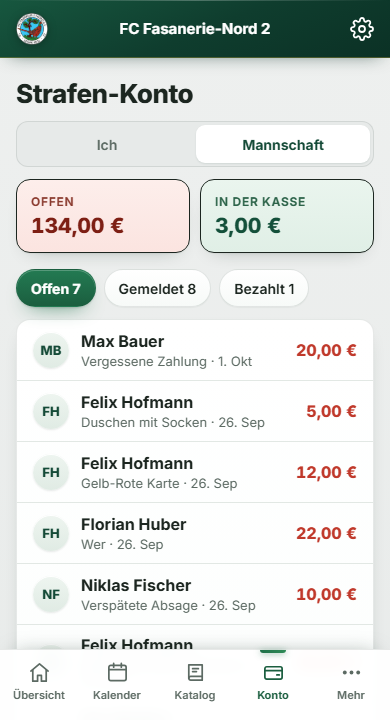
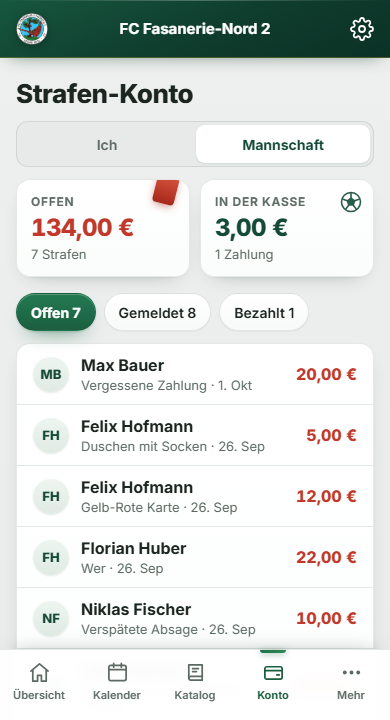
Nachschliff D5: Kennzahlen Offen und In der Kasse (Build 2026-10-09-F)
Konto > Mannschaft: die beiden Kennzahl-Kacheln nach der Vorlage (D5),
ruhige weiße Kacheln statt getönter mit dunklem Rand. Label 12/700
Versalien, Betrag 24/800 (Offen rot, In der Kasse grün), darunter die
Anzahl ("240 Strafen", "61 Zahlungen"). Eine Schiedsrichterkarte ragt
schräg aus "Offen", in "In der Kasse" liegt der Ball. Keine Animation
(die Konzepte der Vorlage sind nicht Teil des Pakets); in der Kasse
kommen keine Kennzahlen zurück.

- nsmess D5 grün; neue Referenz 12 Konto Mannschaft.
- Pflichtliste 20/20, 390-px-Abgleich 27/27.

Changed region(s): [[0.0308, 0.2444, 0.9846, 0.9167], [0.7385, 0.7333, 0.9231, 0.8861]]

diff --git a/index.html b/index.html
@@ -8,7 +8,7 @@
   <link rel="preconnect" href="https://fonts.gstatic.com" crossorigin />
   <link href="https://fonts.googleapis.com/css2?family=Inter:wght@400;500;600;700;800&display=swap" rel="stylesheet" />
   <!-- Versions-Query = Cache-Busting. MUSS bei jedem Deploy mit BUILD unten, APP_BUILD in app.js und VERSION in sw.js gleich hochgezogen werden (prueft .design-sync/shots/buildpruef.mjs). -->
-  <link rel="stylesheet" href="styles.css?v=2026-10-09-E" />
+  <link rel="stylesheet" href="styles.css?v=2026-10-09-F" />
   <!-- Splash-/Ladeanimation: inline, damit nichts nachgeladen wird und es im ersten Frame paint't.
        Farben aus den bestehenden Variablen (Fallback = gleicher Wert gegen weisses Aufblitzen). -->
   <style id="splash-style">
@@ -81,7 +81,7 @@
   <!-- ===================== Boot-Diagnose (laeuft VOR allen Scripten, unabhaengig von app.js) ===================== -->
   <script>
   (function(){
-    var BUILD = "2026-10-09-E";                 // Build-Kennung: bei jedem Deploy hochziehen
+    var BUILD = "2026-10-09-F";                 // Build-Kennung: bei jedem Deploy hochziehen
     window.__HTML_BUILD = BUILD;
     var K = "fnboot", P = "fnboot_prev";
     try { var pr = localStorage.getItem(K); if (pr) localStorage.setItem(P, pr); } catch(e){}   // vorherigen Lauf sichern
@@ -282,7 +282,7 @@
   <!-- Supabase-Client (CDN) -> config.js (Zugang) -> db.js (Datenzugriff) -> app.js -->
   <script src="https://cdn.jsdelivr.net/npm/@supabase/supabase-js@2" onerror="window.__bootErr&&window.__bootErr('script','supabase-js CDN load failed');window.__showDiag&&window.__showDiag('Supabase-Bibliothek (CDN) konnte nicht geladen werden')"></script>
   <script src="config.js" onerror="window.__bootErr&&window.__bootErr('script','config.js load failed');window.__showDiag&&window.__showDiag('config.js konnte nicht geladen werden')"></script>
-  <script src="db.js?v=2026-10-09-E" onerror="window.__bootErr&&window.__bootErr('script','db.js load failed');window.__showDiag&&window.__showDiag('db.js konnte nicht geladen werden')"></script>
-  <script src="app.js?v=2026-10-09-E" onerror="window.__bootErr&&window.__bootErr('script','app.js load failed');window.__showDiag&&window.__showDiag('app.js (Haupt-Script) konnte nicht geladen werden')"></script>
+  <script src="db.js?v=2026-10-09-F" onerror="window.__bootErr&&window.__bootErr('script','db.js load failed');window.__showDiag&&window.__showDiag('db.js konnte nicht geladen werden')"></script>
+  <script src="app.js?v=2026-10-09-F" onerror="window.__bootErr&&window.__bootErr('script','app.js load failed');window.__showDiag&&window.__showDiag('app.js (Haupt-Script) konnte nicht geladen werden')"></script>
 </body>
 </html>

diff --git a/app.js b/app.js
@@ -7,7 +7,7 @@
   "use strict";
 
   // Build-Kennung (muss zur HTML-Build-Kennung in index.html passen). Bei jedem Deploy hochziehen.
-  var APP_BUILD = "2026-10-09-E";
+  var APP_BUILD = "2026-10-09-F";
   try { window.__APP_BUILD = APP_BUILD; window.__boot && window.__boot("app.js:loaded (build " + APP_BUILD + ")"); } catch (e) {}
   function boot(ph) { try { window.__boot && window.__boot(ph); } catch (e) {} }
 
@@ -5328,6 +5328,7 @@
     gefiltert.sort((a, b) => (stRank[a.st] - stRank[b.st]) || b.datum.localeCompare(a.datum));
 
     const summe = (st) => alle.filter((x) => x.st === st).reduce((a, x) => a + x.betrag, 0);
+    const anzahl = (st) => alle.filter((x) => x.st === st).length;
     const chips = [["offen", "Offen"], ["gemeldet", "Gemeldet"], ["bezahlt", "Bezahlt"]];
     const betragKl = (x) => x.st === "offen" ? "is-rot" : x.st === "gemeldet" ? "is-amber" : "is-gruen";
     const zeile = (x) => {
@@ -5351,8 +5352,8 @@
       </div>
       ${seg === "ich" ? kontoBlockHtml() : `
       <div class="kt-kacheln">
-        <div class="kpi kt-kpi is-rot"><span class="kpi-label">Offen</span><span class="kpi-value">${euro(summe("offen"))}</span></div>
-        <div class="kpi kt-kpi is-gruen"><span class="kpi-label">In der Kasse</span><span class="kpi-value">${euro(summe("bestätigt"))}</span></div>
+        <div class="kpi kt-kpi is-rot"><span class="kt-karte" aria-hidden="true"></span><span class="kpi-label">Offen</span><span class="kpi-value">${euro(summe("offen"))}</span><span class="kt-anz">${anzahl("offen") === 1 ? "1 Strafe" : anzahl("offen") + " Strafen"}</span></div>
+        <div class="kpi kt-kpi is-gruen"><span class="kt-ball" aria-hidden="true"><svg viewBox="0 0 24 24" width="24" height="24" fill="none" stroke="currentColor" stroke-width="1.6" stroke-linejoin="round"><circle cx="12" cy="12" r="9.5"/><path d="M12 8.2l3.6 2.6-1.4 4.2H9.8L8.4 10.8z" fill="currentColor"/><path d="M12 8.2V2.6M15.6 10.8l5.2-1.8M14.2 15l3.2 4.4M9.8 15l-3.2 4.4M8.4 10.8 3.2 9"/></svg></span><span class="kpi-label">In der Kasse</span><span class="kpi-value">${euro(summe("bestätigt"))}</span><span class="kt-anz">${anzahl("bestätigt") === 1 ? "1 Zahlung" : anzahl("bestätigt") + " Zahlungen"}</span></div>
       </div>`}
       <div class="kt-chips">
         ${chips.map(([k, l]) => `<button class="chip kt-chip${strafenFilter === k ? " is-active" : ""}" data-sfilter="${k}" aria-pressed="${strafenFilter === k}">${l} ${anz(stKey[k])}</button>`).join("")}

diff --git a/styles.css b/styles.css
@@ -4165,3 +4165,14 @@ body:has(.nsb-ov) .app-nav { visibility: hidden; }
 .sf-datum-t { flex: 1 1 auto; color: var(--ink); }
 .sf-datum-t.is-leer { color: var(--muted); }
 .sf-datum input { position: absolute; inset: 0; width: 100%; height: 100%; opacity: 0; border: 0; padding: 0; margin: 0; font-size: 16px; -webkit-appearance: none; appearance: none; }
+/* D5 Konto › Mannschaft · Kennzahlen Offen und In der Kasse: ruhige weiße Kacheln,
+   Schiedsrichterkarte ragt aus „Offen“, in der Kasse liegt der Ball (ohne Animation) */
+.kpi.kt-kpi { position: relative; overflow: hidden; min-height: 0; gap: 4px; padding: 14px; background: var(--grad-kpi); border: 1px solid var(--line-soft); border-radius: var(--radius); box-shadow: var(--shadow-card); }
+.kpi.kt-kpi.is-rot .kpi-label, .kpi.kt-kpi.is-gruen .kpi-label { color: var(--muted); }
+.kt-kpi .kpi-label { font-size: 12px; font-weight: 700; letter-spacing: .06em; line-height: normal; }
+.kt-kpi .kpi-value { font-size: 24px; font-weight: 800; letter-spacing: -.02em; line-height: normal; font-variant-numeric: tabular-nums; }
+.kpi.kt-kpi.is-rot .kpi-value { color: var(--red-600); }
+.kpi.kt-kpi.is-gruen .kpi-value { color: var(--green-800); }
+.kt-anz { font-size: 13px; color: var(--muted); }
+.kt-karte { position: absolute; right: 12px; top: -6px; width: 22px; height: 30px; border-radius: 4px; background: linear-gradient(180deg, var(--red-500), var(--red-700)); box-shadow: 0 3px 8px -2px rgba(165,40,27,.6); transform: rotate(14deg); }
+.kt-ball { position: absolute; right: 10px; top: 10px; opacity: .9; color: var(--green-800); display: flex; }

diff --git a/sw.js b/sw.js
@@ -27,7 +27,7 @@
    eine geaenderte offline.html fuer immer die alte. Mit ihr holt "install"
    die Offline-Seite frisch und "activate" wirft jeden anderen Cache weg.
    Das Push-Abo haengt an der Registrierung und uebersteht das Update. */
-const VERSION = "fn-sw-2026-10-09-E";
+const VERSION = "fn-sw-2026-10-09-F";
 const OFFLINE = "offline.html";
 
 self.addEventListener("install", (e) => {
